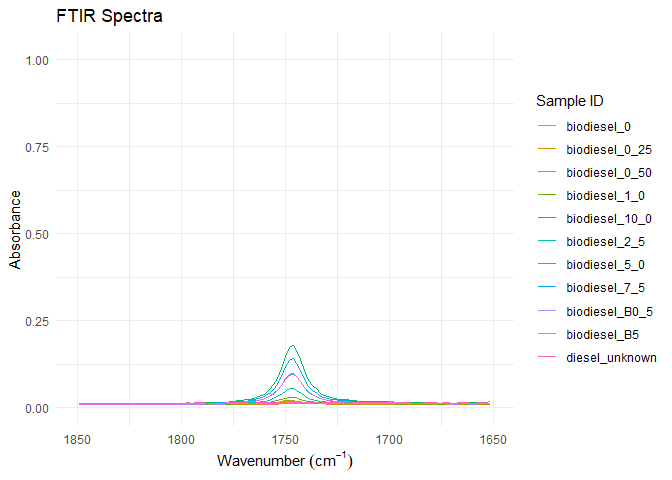
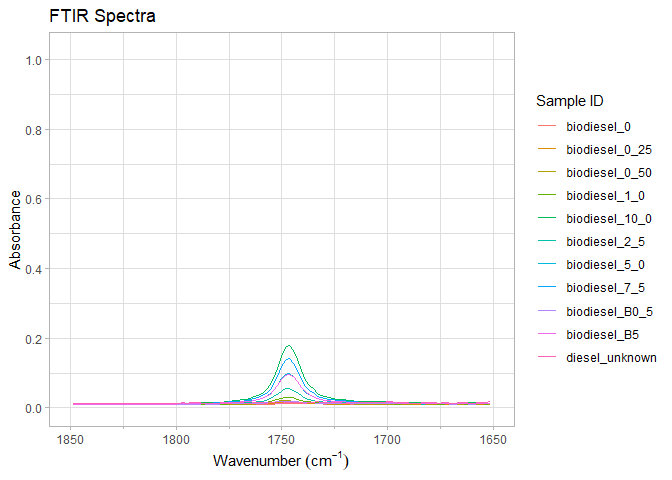
R CMD Chk, tests, and readme update. Also slight modification of plot theme.

diff --git a/README.md b/README.md
@@ -41,7 +41,9 @@ plot_ftir(sample_spectra)
 We can also plot spectra in a stacked/offset manner instead of overlaid:
 
 ``` r
-plot_ftir_stacked(biodiesel)
+# Generate a plot
+biodiesel_plot <- plot_ftir(biodiesel)
+biodiesel_plot
 ```
 
 <img src="man/figures/README-stack_plot_en-1.png" width="100%" />
@@ -49,8 +51,6 @@ plot_ftir_stacked(biodiesel)
 Plots can be manipulated, for example, by zooming in on a range:
 
 ``` r
-# Generate a plot
-biodiesel_plot <- plot_ftir(biodiesel)
 # Zoom to a specified range of 1850 to 1650 cm^-1
 zoom_in_on_range(biodiesel_plot, c(1650, 1850))
 #> Warning: Removed 18304 rows containing missing values or values outside the scale range
@@ -58,6 +58,17 @@ zoom_in_on_range(biodiesel_plot, c(1650, 1850))
 ```
 
 <img src="man/figures/README-biodiesel_zoom_en-1.png" width="100%" />
+
+Some FTIR plots have a compressed low-energy portion of the graph. We
+can achieve this by the following:
+
+``` r
+# compress the data with wavenumbers above 2000 (to the left of 2000 on the
+# plot) by a factor of 5
+compress_low_energy(biodiesel_plot, cutoff = 2000, compression_ratio = 5)
+```
+
+<img src="man/figures/README-biodiesel_compress_en-1.png" width="100%" />
 
 ## Data Sets
 
@@ -158,6 +169,17 @@ zoom_in_on_range(biodiesel_trace, c(1650, 1850))
 ```
 
 <img src="man/figures/README-biodiesel_zoom_fr-1.png" width="100%" />
+
+Certains tracés FTIR ont une partie compressée du graphique à faible
+énergie. Nous pouvons y parvenir de la manière suivante :
+
+``` r
+# compresser les données avec des nombres d'onde supérieurs à 2000 (à gauche de
+# 2000 sur le tracé) d'un facteur 5
+compress_low_energy(biodiesel_plot, cutoff = 2000, compression_ratio = 5)
+```
+
+<img src="man/figures/README-biodiesel_compress_fr-1.png" width="100%" />
 
 ## Ensembles des données
 
